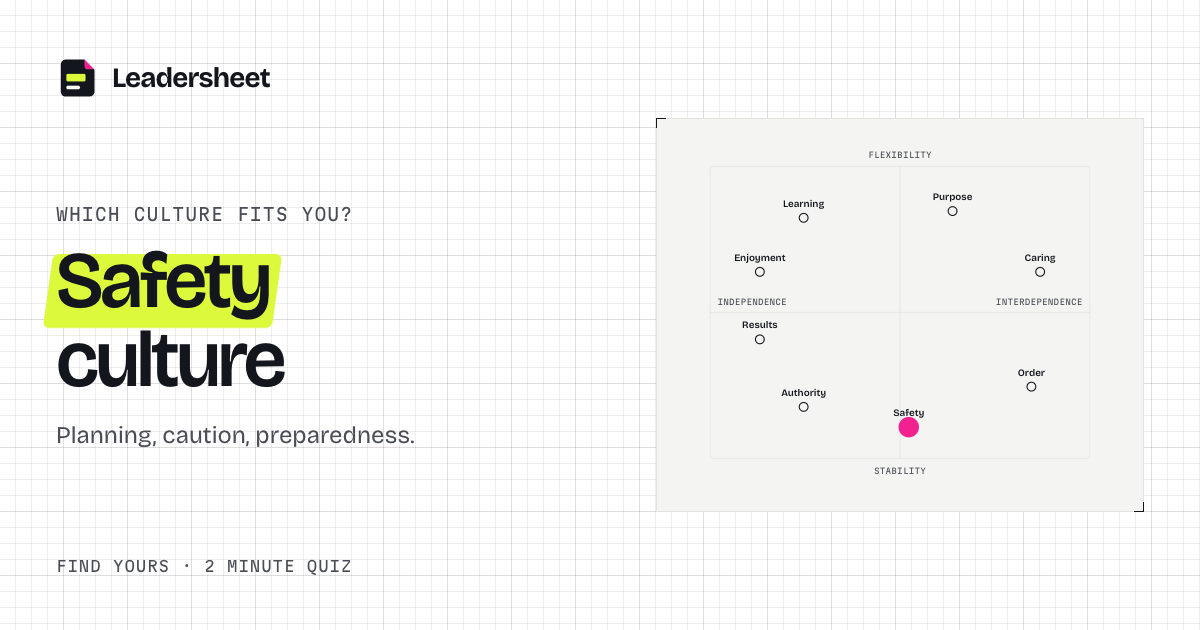
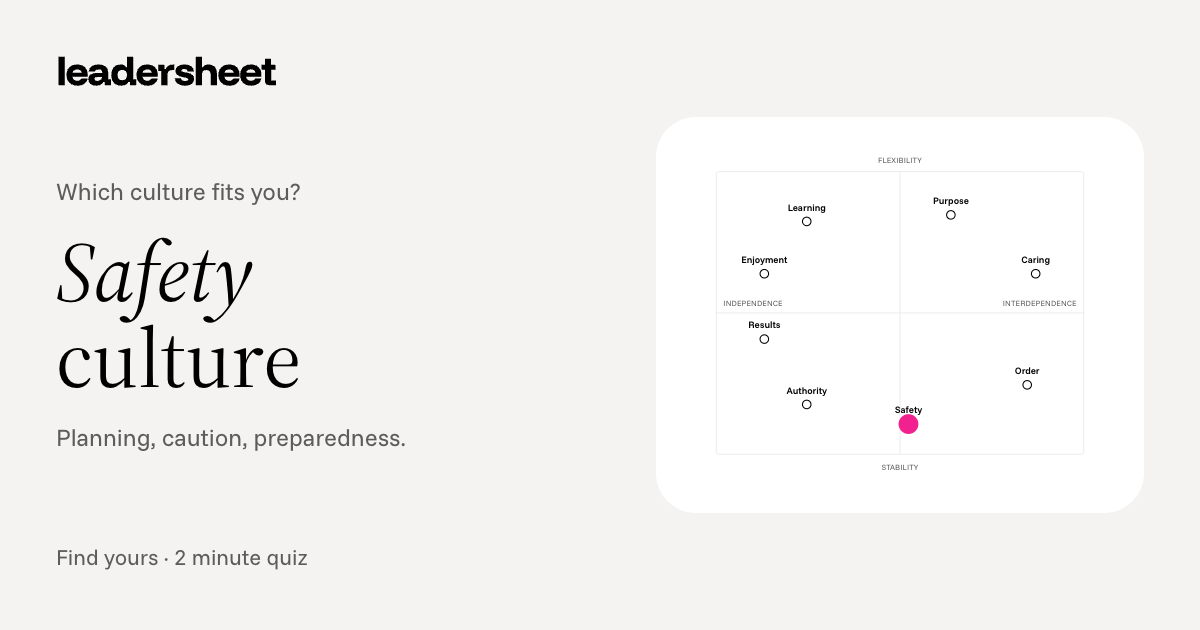
Brilliant's measured colours and corners, lessons everywhere, one headline, new share images, pill practice switch

diff --git a/src/app/og/sheet/[id]/page.tsx b/src/app/og/sheet/[id]/page.tsx
@@ -1,11 +1,9 @@
 import type { Metadata } from "next"
 import { notFound } from "next/navigation"
-import { BRAND, LogoMark } from "@/brand"
-import { Emphasis } from "@/components/brand/emphasis"
-import { TitleBlock } from "@/components/brand/title-block"
+import { Wordmark } from "@/brand"
 import { SESSIONS, sessionById } from "@/data/course"
 
-// Source for public/og/sheet-<id>.png (scripts/make-og.mjs). Not linked anywhere and not indexed.
+// Source for public/og/sheet-<id>.png (scripts/make-og.ts). Not linked anywhere and not indexed.
 export const metadata: Metadata = { title: "Sheet card", robots: { index: false, follow: false } }
 export const dynamicParams = false
 export function generateStaticParams() {
@@ -16,33 +14,19 @@ export default async function SheetCard({ params }: { params: Promise<{ id: stri
   const { id } = await params
   const s = sessionById(id)
   if (!s) notFound()
-  const words = s.idea.split(" ")
-  const head = words.slice(0, -3).join(" "),
-    tail = words.slice(-3).join(" ")
   return (
     <div className="fixed inset-0 z-[100] bg-background">
-      <div className="drafting-grid absolute inset-0" />
-      <div className="relative flex h-[630px] w-[1200px] flex-col justify-between p-14">
+      <div className="flex h-[630px] w-[1200px] flex-col justify-between p-16">
         <div className="flex items-center justify-between">
-          <span className="flex items-center gap-3">
-            <LogoMark className="size-11" />
-            <span className="text-[28px] font-bold tracking-[-0.03em]">{BRAND.name}</span>
+          <Wordmark className="h-[30px]" />
+          <span className="text-[22px] text-muted-foreground">
+            Lesson {s.n} of 12 · {s.part}
           </span>
-          <TitleBlock
-            className="w-[460px] bg-card [&_dd]:!text-[17px] [&_dt]:!text-[12px]"
-            cells={[
-              { k: "Sheet", v: `${s.n} of 12` },
-              { k: "Part", v: s.part },
-            ]}
-          />
         </div>
-        <div className="grid gap-6">
-          <h1 className="max-w-[18ch] text-[84px] leading-[0.96]">{s.title}</h1>
-          <p className="max-w-[40ch] text-[32px] leading-[1.22] font-medium tracking-[-0.01em]">
-            {head} <Emphasis delay={0}>{tail}</Emphasis>
-          </p>
+        <div className="grid gap-7 rounded-[40px] bg-card p-12">
+          <h1 className="text-[80px] leading-[1.02]">{s.title}</h1>
+          <p className="max-w-[44ch] text-[30px] leading-[1.3] text-muted-foreground">{s.idea}</p>
         </div>
-        <p className="label-mono !text-[15px]">Idea · model · frameworks · three question check</p>
       </div>
     </div>
   )

diff --git a/src/app/og/result/[game]/[id]/page.tsx b/src/app/og/result/[game]/[id]/page.tsx
@@ -1,11 +1,11 @@
 import type { Metadata } from "next"
 import { notFound } from "next/navigation"
-import { BRAND, LogoMark } from "@/brand"
+import { Wordmark } from "@/brand"
 import { Emphasis } from "@/components/brand/emphasis"
 import { ConflictChart, CultureMapResult } from "@/components/play/games"
 import { RESULT_GAMES, type ResultGame, allResults, resultKey, resultSlug } from "@/data/results"
 
-// Source for public/og/<game>-<id>.png (scripts/make-og.mjs). Not linked anywhere and not indexed.
+// Source for public/og/<game>-<id>.png (scripts/make-og.ts). Not linked anywhere and not indexed.
 export const metadata: Metadata = { title: "Result card", robots: { index: false, follow: false } }
 export const dynamicParams = false
 export function generateStaticParams() {
@@ -19,16 +19,12 @@ export default async function ResultCard({ params }: { params: Promise<{ game: s
   if (!g || !key) notFound()
   return (
     <div className="fixed inset-0 z-[100] bg-background">
-      <div className="drafting-grid absolute inset-0" />
       <div className="relative grid h-[630px] w-[1200px] grid-cols-[560px_1fr] items-center gap-10 p-14">
         <div className="flex h-full flex-col justify-between">
-          <span className="flex items-center gap-3">
-            <LogoMark className="size-11" />
-            <span className="text-[28px] font-bold tracking-[-0.03em]">{BRAND.name}</span>
-          </span>
+          <Wordmark className="h-[30px] self-start" />
           <div className="grid gap-5">
-            <p className="label-mono !text-[17px]">{g.question}</p>
-            <p className="text-[80px] leading-[0.98] font-semibold tracking-[-0.04em]">
+            <p className="text-[24px] text-muted-foreground">{g.question}</p>
+            <p className="font-serif text-[84px] leading-[1.02]">
               <Emphasis delay={0}>{key}</Emphasis>
               {g.suffix && (
                 <>
@@ -39,9 +35,9 @@ export default async function ResultCard({ params }: { params: Promise<{ game: s
             </p>
             <p className="text-[24px] leading-snug text-muted-foreground">{g.desc(key)}</p>
           </div>
-          <p className="label-mono !text-[15px]">Find yours · 2 minute quiz</p>
+          <p className="text-[22px] text-muted-foreground">Find yours · 2 minute quiz</p>
         </div>
-        <div className="rounded-2xl bg-card p-6">
+        <div className="rounded-[40px] bg-card p-8">
           {game === "culture" ? <CultureMapResult top={key} className="max-w-none" /> : <ConflictChart top={key} className="max-w-none" />}
         </div>
       </div>

diff --git a/src/app/og/page.tsx b/src/app/og/page.tsx
@@ -1,26 +1,21 @@
 import type { Metadata } from "next"
-import { BRAND, LogoMark } from "@/brand"
+import { Wordmark } from "@/brand"
 import { Emphasis } from "@/components/brand/emphasis"
 
-// Source for public/og.png (scripts/make-og.mjs). Not linked anywhere and not indexed.
+// Source for public/og.png (scripts/make-og.ts). Not linked anywhere and not indexed.
 export const metadata: Metadata = { title: "Share card", robots: { index: false, follow: false } }
 
 export default function OgCard() {
   return (
     <div className="fixed inset-0 z-[100] bg-background">
-      <div className="drafting-grid absolute inset-0" />
-      <div className="relative flex h-[630px] w-[1200px] flex-col justify-between p-16">
-        <div className="flex items-center justify-between">
-          <span className="flex items-center gap-4">
-            <LogoMark className="size-14" />
-            <span className="text-[34px] font-bold tracking-[-0.03em]">{BRAND.name}</span>
-          </span>
-          <span className="label-mono !text-base">Twelve big ideas · one sheet each</span>
-        </div>
-        <h1 className="max-w-[15ch] text-[100px] leading-[0.95]">
-          Learn to <Emphasis delay={0}>lead.</Emphasis>
+      <div className="flex h-[630px] w-[1200px] flex-col items-center justify-center gap-9 p-16 text-center">
+        <Wordmark className="h-[34px]" />
+        <h1 className="max-w-[14ch] text-[104px] leading-[1.02]">
+          Learn <Emphasis>leadership</Emphasis> by doing
         </h1>
-        <p className="label-mono !text-base">Idea · model · frameworks · games · three question check</p>
+        <p className="max-w-[40ch] text-[28px] leading-snug text-muted-foreground">
+          Twelve short, hands-on lessons on how leaders build teams, shape culture and drive change.
+        </p>
       </div>
     </div>
   )

diff --git a/src/app/learn/[id]/page.tsx b/src/app/learn/[id]/page.tsx
@@ -79,7 +79,7 @@ export default async function SessionPage({ params }: { params: Promise<{ id: st
     <div className="mx-auto max-w-[1240px] px-4 pt-8 sm:px-6 lg:pt-12">
       <SeenMarker id={s.id} />
       <div className="grid gap-10 lg:grid-cols-[260px_minmax(0,1fr)] lg:gap-14">
-        <aside aria-label="All sheets" className="hidden lg:block">
+        <aside aria-label="All lessons" className="hidden lg:block">
           <div className="sticky top-24 grid gap-3">
             <SheetRail currentId={s.id} />
           </div>
@@ -88,7 +88,7 @@ export default async function SessionPage({ params }: { params: Promise<{ id: st
         <article className="grid max-w-[800px] min-w-0 gap-14">
           <header className="grid gap-6">
             <Link href="/learn/" className="label-mono inline-flex w-fit items-center gap-1.5 hover:text-foreground lg:hidden">
-              <ArrowLeft className="size-3.5" /> All sheets
+              <ArrowLeft className="size-3.5" /> All lessons
             </Link>
             <h1 className="text-[42px] leading-[1] sm:text-[60px]">{s.title}</h1>
             <p className="text-2xl leading-[1.25] font-medium tracking-[-0.01em] sm:text-[28px]">
@@ -96,7 +96,7 @@ export default async function SessionPage({ params }: { params: Promise<{ id: st
             </p>
             {/* The model is the point of the sheet; on a phone it would otherwise sit below the film and the readings. */}
             <p className="text-[15px] text-muted-foreground">
-              Sheet {s.n} of 12 · {s.part}
+              Lesson {s.n} of 12 · {s.part}
             </p>
             <a href="#see-it" className="label-mono inline-flex w-fit items-center gap-1.5 border-b border-foreground pb-0.5 text-foreground hover:text-muted-foreground">
               Try the model <ArrowDown className="size-3.5" />

diff --git a/src/components/play/games.tsx b/src/components/play/games.tsx
@@ -163,7 +163,7 @@ export function CultureGame() {
         <Disclaimer>
           For fun, not a validated assessment. Based on Groysberg et al. (2018).{" "}
           <Link href="/learn/s4/" className="font-semibold text-foreground underline-offset-4 hover:underline">
-            Open sheet S04
+            Open lesson 4
           </Link>
         </Disclaimer>
       </GameShell>
@@ -291,7 +291,7 @@ export function ConflictGame() {
         <Disclaimer>
           For fun, not a validated assessment or the Thomas-Kilmann instrument.{" "}
           <Link href="/learn/s7/" className="font-semibold text-foreground underline-offset-4 hover:underline">
-            Open sheet S07
+            Open lesson 7
           </Link>
         </Disclaimer>
       </GameShell>
@@ -478,7 +478,7 @@ export function BiasGame() {
           </Button>
           <ShareResult text={`I spotted ${score} biases in 60 seconds. Can you beat that?`} path="/play/bias/" />
           <Button asChild variant="outline">
-            <Link href="/learn/s8/">Open sheet S08</Link>
+            <Link href="/learn/s8/">Open lesson 8</Link>
           </Button>
         </div>
       </GameShell>
@@ -664,7 +664,7 @@ export function ClimbGame() {
               </Button>
               <ShareResult text={`I climbed Kotter’s 8 steps of change in ${secs(final)} seconds. Can you beat that?`} path="/play/climb/" />
               <Button asChild variant="outline">
-                <Link href="/learn/s5/">Open sheet S05</Link>
+                <Link href="/learn/s5/">Open lesson 5</Link>
               </Button>
             </div>
           )}

diff --git a/src/components/learn/this-week.tsx b/src/components/learn/this-week.tsx
@@ -31,7 +31,7 @@ export function ThisWeek({ sheets }: Sheets) {
       <TitleBlock
         className="px-5 pt-5 sm:px-7 sm:pt-7"
         cells={[
-          { k: "Sheet", v: `Sheet ${s.n}` },
+          { k: "Lesson", v: `Lesson ${s.n}` },
           { k: "Class", v: fmtMono(s.date) },
           { k: "Part", v: s.part, wide: true },
           { k: "Check", v: best == null ? "Check not taken" : `Check ${best} of 3` },
@@ -47,7 +47,7 @@ export function ThisWeek({ sheets }: Sheets) {
           <div className="flex flex-wrap gap-2 pt-2">
             <Button asChild size="lg">
               <Link href={`/learn/${s.id}/`}>
-                Open sheet {s.n} <ArrowRight className="size-4" />
+                Open lesson {s.n} <ArrowRight className="size-4" />
               </Link>
             </Button>
           </div>
@@ -91,7 +91,7 @@ export function OpenThisWeek({ sheets }: Sheets) {
     return (
       <Button asChild size="lg">
         <Link href={`/learn/${current.id}/`}>
-          Open this week’s sheet <ArrowRight className="size-4" />
+          Open this week’s lesson <ArrowRight className="size-4" />
         </Link>
       </Button>
     )
@@ -100,7 +100,7 @@ export function OpenThisWeek({ sheets }: Sheets) {
   return (
     <Button asChild size="lg">
       <Link href={`/learn/${s.id}/`}>
-        {resuming ? `Continue with sheet ${s.n}` : "Start with sheet 1"} <ArrowRight className="size-4" />
+        {resuming ? `Continue with lesson ${s.n}` : "Start learning"} <ArrowRight className="size-4" />
       </Link>
     </Button>
   )

diff --git a/src/brand/presets/leadersheet/tokens.css b/src/brand/presets/leadersheet/tokens.css
@@ -1,8 +1,9 @@
 /*
   Preset: Leadersheet.
-  Concept: the cheat sheet for leading people, printed in two fluorescent inks.
-  Paper and ink do the work. Lime is the highlighter (behind words, ink text on top, one per view).
-  Pink is the signal (lines, data marks, focus). Pink text only at 24px and up, or use --signal-text.
+  Built on Brilliant's system, measured from brilliant.org (Nov 2026): pure black text, black at about
+  60% for secondary text, an oat page (#f5f3f1) with white cards, #e4e4e4 rules, pills for every
+  control and 28px corners on large cards. Pink marks data in the drawings (the selected point).
+  Lime appears only in the app icon.
 */
 
 :root {
@@ -11,22 +12,22 @@
   --dur-ui: 200ms;
   --dur-draw: 650ms;
 
-  --background: #f5f5f3;
-  --foreground: #13161c;
+  --background: #f5f3f1;
+  --foreground: #000000;
   --card: #ffffff;
-  --card-foreground: #13161c;
+  --card-foreground: #000000;
   --popover: #ffffff;
-  --popover-foreground: #13161c;
-  --primary: #13161c;
+  --popover-foreground: #000000;
+  --primary: #000000;
   --primary-foreground: #ffffff;
-  --secondary: #ececea;
-  --secondary-foreground: #13161c;
-  --muted: #ececea;
-  --muted-foreground: #4a4d55;
+  --secondary: #ebe9e6;
+  --secondary-foreground: #000000;
+  --muted: #ebe9e6;
+  --muted-foreground: #5c5c5c;
   --accent: #e8e8e5;
-  --accent-foreground: #13161c;
+  --accent-foreground: #000000;
   --destructive: #a5122d;
-  --border: #e2e2df;
+  --border: #e4e4e4;
   --rule: #7d8088;
   --input: #7d8088;
   --ring: #f1228f;

diff --git a/src/app/practice/practice-client.tsx b/src/app/practice/practice-client.tsx
@@ -280,13 +280,13 @@ export function PracticeClient() {
     <div className="grid gap-6">
       <Stats />
       <Tabs defaultValue="drill" className="gap-5">
-        <TabsList className="h-auto w-full justify-start rounded-md border border-border bg-muted p-1 sm:w-fit">
+        <TabsList className="h-auto w-full justify-start rounded-full bg-muted p-1 sm:w-fit">
           {[
             ["drill", "Drill"],
             ["match", "Which framework?"],
             ["flash", "Flashcards"],
           ].map(([v, l]) => (
-            <TabsTrigger key={v} value={v} className="min-h-10 flex-1 rounded-[4px] px-4 text-sm text-muted-foreground hover:text-foreground data-[state=active]:text-foreground data-[state=active]:bg-card data-[state=active]:font-semibold data-[state=active]:shadow-[0_0_0_1px_var(--rule)] sm:flex-none">
+            <TabsTrigger key={v} value={v} className="min-h-10 flex-1 rounded-full px-4 text-sm text-muted-foreground hover:text-foreground data-[state=active]:bg-foreground data-[state=active]:font-semibold data-[state=active]:text-background sm:flex-none">
               {l}
             </TabsTrigger>
           ))}

diff --git a/src/components/film/session-film.tsx b/src/components/film/session-film.tsx
@@ -132,7 +132,7 @@ export function SessionFilm(p: SessionFilmProps) {
       <Sequence from={345} durationInFrames={80} layout="none">
         <Beat dur={80}>
           <div style={{ marginTop: 20, display: "grid", gap: 26 }}>
-            <Label>Frameworks on this sheet</Label>
+            <Label>Frameworks in this lesson</Label>
             <FrameworkTree names={fws} sheet={p.sheet} />
           </div>
         </Beat>
@@ -177,7 +177,7 @@ function FrameworkTree({ names, sheet }: { names: string[]; sheet: string }) {
     <svg width={W} height={330} viewBox={`0 0 ${W} 330`} style={{ overflow: "visible" }}>
       <rect x={W / 2 - 90} y={10} width={180} height={56} rx={6} fill="var(--signal)" />
       <text x={W / 2} y={46} textAnchor="middle" style={{ font: `600 24px ${sans}`, fill: "var(--signal-foreground)" }}>
-        Sheet {sheet}
+        Lesson {sheet}
       </text>
       {xs.map((x, i) => (
         <path key={i} d={`M${W / 2} 66 C${W / 2} 120 ${x} 110 ${x} 168`} stroke="var(--foreground)" strokeWidth={2.5} fill="none" pathLength={1} strokeDasharray={1} strokeDashoffset={draw} />

diff --git a/src/app/not-found.tsx b/src/app/not-found.tsx
@@ -4,7 +4,7 @@ import { Button } from "@/components/ui/button"
 import { BRAND } from "@/brand"
 
 export const metadata: Metadata = {
-  title: "No sheet here",
+  title: "No lesson here",
   robots: { index: false, follow: true },
   alternates: { canonical: null },
   openGraph: { siteName: BRAND.name, images: [{ url: "/og.png", width: 1200, height: 630 }] },
@@ -13,8 +13,8 @@ export const metadata: Metadata = {
 export default function NotFound() {
   return (
     <div className="mx-auto grid max-w-[720px] gap-5 px-4 pt-20 sm:px-6">
-      <p className="label-mono">Sheet not found · 404</p>
-      <h1 className="text-5xl leading-none">No sheet at this address. The set has twelve.</h1>
+      <p className="label-mono">404</p>
+      <h1 className="text-5xl leading-none">No lesson at this address. There are twelve.</h1>
       <div>
         <Button asChild size="lg">
           <Link href="/learn/">See all twelve</Link>

diff --git a/src/brand/presets/leadersheet/brand.ts b/src/brand/presets/leadersheet/brand.ts
@@ -4,10 +4,10 @@ export const BRAND: Brand = {
   id: "leadersheet",
   name: "Leadersheet",
   shortName: "Leadersheet",
-  descriptor: "Leadership, one sheet at a time",
-  title: "Leadersheet · Learn to lead",
+  descriptor: "Learn leadership by doing",
+  title: "Leadersheet · Learn leadership by doing",
   description:
-    "Twelve big leadership ideas as interactive sheets: the idea, a model you can move, the frameworks, a three question check, and games. Free, no sign-up.",
+    "Twelve short, hands-on lessons on how leaders build teams, shape culture and drive change. Free, no sign-up.",
   emphasis: "highlight",
   author: { name: "Sami Kirberg", url: "https://github.com/skirberg" },
   repo: "https://github.com/skirberg/leadersheet",

diff --git a/src/components/play/arcade.tsx b/src/components/play/arcade.tsx
@@ -107,7 +107,7 @@ export function PlayCallout({ sheet }: { sheet: string }) {
     >
       <Glyph id={g.id} />
       <span className="grid min-w-0 gap-0.5">
-        <span className={cn("label-mono", play && "!text-signal-text")}>Play this sheet · {g.minutes}</span>
+        <span className={cn("label-mono", play && "!text-signal-text")}>Play this lesson · {g.minutes}</span>
         <span className="text-lg leading-tight font-semibold">{g.title}</span>
         <span className="text-sm text-muted-foreground">{g.blurb}</span>
       </span>
